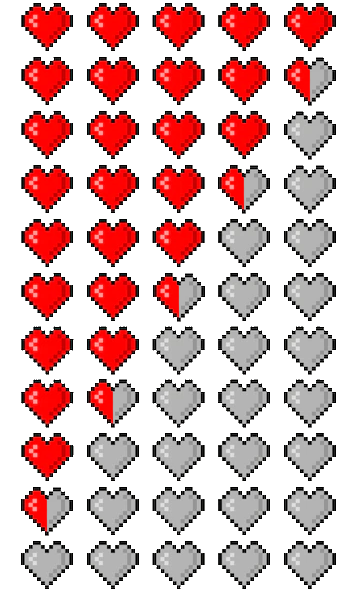
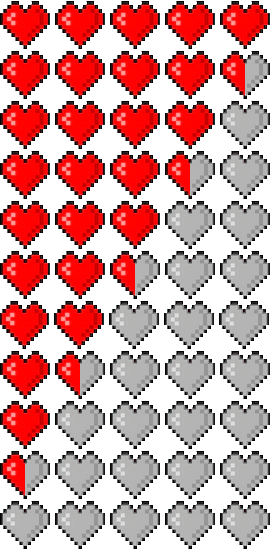
Change SpriteSheet for Lifebar

diff --git a/src/LifeBarView.cpp b/src/LifeBarView.cpp
@@ -6,7 +6,7 @@ LifeBarView::LifeBarView()
     this->lifebarSprite= new sf::Sprite();
     this->texture=new sf::Texture();
     texture->loadFromFile("images/lifebar.png");
-    this->intrect = new sf::IntRect(16,0,620,53);
+    this->intrect = new sf::IntRect(0,0,270,50);
     this->lifebarSprite->setTextureRect(*intrect);
     this->lifebarSprite->setTexture(*texture);
     this->lifebarSprite->setPosition(0.0,0.0);
@@ -34,10 +34,10 @@ LifeBarView& LifeBarView::operator=(const LifeBarView& rhs)
 void LifeBarView::getDamaged(int hp){
     int res = 10-hp;
     this->intrect->top=0;
-    if(this->intrect->top<530)
-        this->intrect->top+=(53*res);
+    if(this->intrect->top<450)
+        this->intrect->top+=(50*res);
     else{
-        this->intrect->top=530;
+        this->intrect->top=450;
     }
     this->lifebarSprite->setTextureRect(*intrect);
 }
